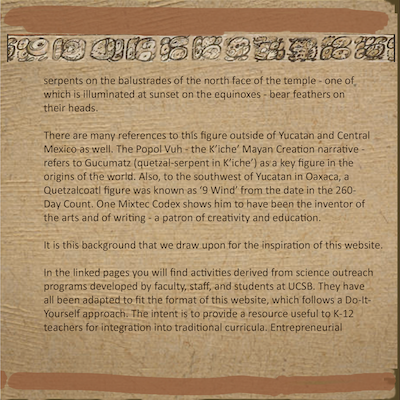
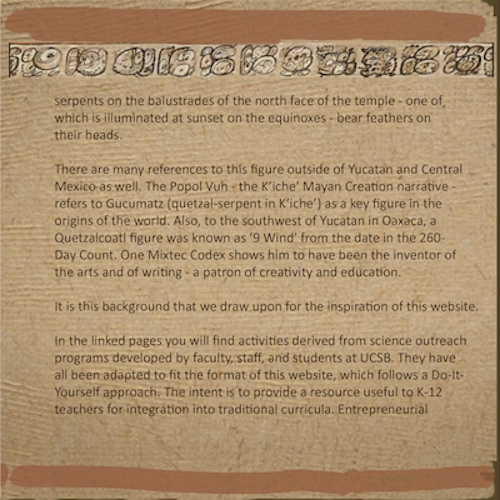
added footer for external links

diff --git a/src/pages/About.js b/src/pages/About.js
@@ -1,62 +1,64 @@
 import React from "react";
 import Navigation from "../components/Navigation";
+import Footer from "../components/Footer";
 import "../styles.css";
 import HTMLFlipBook from "react-pageflip";
-import titleBackground from "../components/images/title1.png";
-import pageOne from "../components/images/pageOne1.png";
-import pageTwo from "../components/images/pageTwo1.png";
-import pageThree from "../components/images/pageThree1.png";
-import pageFour from "../components/images/pageFour1.png";
-import pageFive from "../components/images/pageFive1.png";
-import pageSix from "../components/images/pageSix1.png";
-import pageSeven from "../components/images/mpEight1.png";
+import titleBackground from "../components/images/pageFour1.png";
+import pageOne from "../components/images/pageFive1.png";
+import pageTwo from "../components/images/pageSix1.png";
+import pageThree from "../components/images/mpEight2.png";
+// import pageFour from "../components/images/pageFour1.png";
+// import pageFive from "../components/images/pageFive1.png";
+// import pageSix from "../components/images/pageSix1.png";
+// import pageSeven from "../components/images/mpEight1.png";
 
 function MyBook(props) {
   return (
     <div className="myBook">
       <Navigation />
-        <HTMLFlipBook width={400} height={400} style={{marginLeft: "auto", marginRight: "auto", marginTop: "5%"}}>
+        <HTMLFlipBook width={500} height={500} style={{marginLeft: "auto", marginRight: "auto", marginTop: "5%"}}>
           <div className="demoPage">
             <div className="pageContent">
-              <div className="page-image" style={{backgroundImage: `url(${titleBackground})`, width: "400px", height: "400px"}}>Page 1</div>
+              <div className="page-image" style={{backgroundImage: `url(${titleBackground})`, width: "500px", height: "500px"}}>Page 1</div>
             </div>
           </div>
           <div className="demoPage">
             <div className="pageContent">
-              <div className="page-image" style={{backgroundImage: `url(${pageOne})`, width: "400px", height: "400px"}}>Page 2</div>
+              <div className="page-image" style={{backgroundImage: `url(${pageOne})`, width: "500px", height: "500px"}}>Page 2</div>
             </div>
           </div>
           <div className="demoPage">
             <div className="pageContent">
-              <div className="page-image" style={{backgroundImage: `url(${pageTwo})`, width: "400px", height: "400px"}}>Page 3</div>
+              <div className="page-image" style={{backgroundImage: `url(${pageTwo})`, width: "500px", height: "500px"}}>Page 3</div>
             </div>
           </div>
           <div className="demoPage">
             <div className="pageContent">
-              <div className="page-image" style={{backgroundImage: `url(${pageThree})`, width: "400px", height: "400px"}}>Page 4</div>
+              <div className="page-image" style={{backgroundImage: `url(${pageThree})`, width: "500px", height: "500px"}}>Page 4</div>
             </div>
           </div>
-          <div className="demoPage">
+          {/* <div className="demoPage">
             <div className="pageContent">
-              <div className="page-image" style={{backgroundImage: `url(${pageFour})`, width: "400px", height: "400px"}}>Page 5</div>
+              <div className="page-image" style={{backgroundImage: `url(${pageFour})`, width: "500px", height: "500px"}}>Page 5</div>
             </div>
-          </div>
-          <div className="demoPage">
+          </div> */}
+          {/* <div className="demoPage">
             <div className="pageContent">
-              <div className="page-image" style={{backgroundImage: `url(${pageFive})`, width: "400px", height: "400px"}}>Page 6</div>
+              <div className="page-image" style={{backgroundImage: `url(${pageFive})`, width: "500px", height: "500px"}}>Page 6</div>
             </div>
-          </div>
-          <div className="demoPage">
+          </div> */}
+          {/* <div className="demoPage">
             <div className="pageContent">
-              <div className="page-image" style={{backgroundImage: `url(${pageSix})`, width: "400px", height: "400px"}}>Page 7</div>
+              <div className="page-image" style={{backgroundImage: `url(${pageSix})`, width: "500px", height: "500px"}}>Page 7</div>
             </div>
-          </div>
-          <div className="demoPage">
+          </div> */}
+          {/* <div className="demoPage">
             <div className="pageContent">
-              <div className="page-image" style={{backgroundImage: `url(${pageSeven})`, width: "400px", height: "400px"}}>Page 8</div>
+              <div className="page-image" style={{backgroundImage: `url(${pageSeven})`, width: "500px", height: "500px"}}>Page 8</div>
             </div>
-          </div>
+          </div> */}
         </HTMLFlipBook>
+        <Footer />
     </div>
   );
 }

diff --git a/src/pages/ModThree.js b/src/pages/ModThree.js
@@ -8,6 +8,9 @@ import pageTwo from "../components/images/spThree1.png";
 import pageThree from "../components/images/apFour1.png";
 import pageFour from "../components/images/apFive1.png";
 import pageFive from "../components/images/apSix1.png";
+import pageSix from "../components/images/mpSeven1.png";
+import pageSeven from "../components/images/mpEight1.png";
+import ReactPlayer from 'react-player';
 
 function ModThree(props) {
   return (
@@ -42,6 +45,25 @@ function ModThree(props) {
           <div className="demoPage">
             <div className="pageContent">
               <div className="page-image" style={{backgroundImage: `url(${pageFive})`, width: "400px", height: "400px"}}>Page 6</div>
+            </div>
+          </div>
+          <div className="demoPage">
+            <div className="pageContent">
+              <div className="page-image" style={{backgroundImage: `url(${pageSix})`, width: "400px", height: "400px"}}>Page 7</div>
+            </div>
+          </div>
+          <div className="demoPage">
+            <div className="container">
+              <div className="video col-sm-6">
+                <div className="page-image" style={{backgroundImage: `url(${pageSeven})`, width: "400px", height: "400px"}}> 
+                    <div className="row" style={{height: "300px"}}>                       
+                      <ReactPlayer 
+                          style={{postion: "relative", marginTop: "5%", marginLeft: "1vw"}}
+                          url="https://youtu.be/tTpprVa23mo" 
+                      />
+                    </div>
+                </div>
+              </div>
             </div>
           </div>
         </HTMLFlipBook>

diff --git a/src/pages/ModTwo.js b/src/pages/ModTwo.js
@@ -8,6 +8,9 @@ import pageTwo from "../components/images/apThree1.png";
 import pageThree from "../components/images/apFour1.png";
 import pageFour from "../components/images/apFive1.png";
 import pageFive from "../components/images/apSix1.png";
+import pageSix from "../components/images/mpSeven1.png";
+import pageSeven from "../components/images/mpEight1.png";
+import ReactPlayer from 'react-player';
 
 function ModTwo(props) {
   return (
@@ -42,6 +45,25 @@ function ModTwo(props) {
           <div className="demoPage">
             <div className="pageContent">
               <div className="page-image" style={{backgroundImage: `url(${pageFive})`, width: "400px", height: "400px"}}>Page 6</div>
+            </div>
+          </div>
+          <div className="demoPage">
+            <div className="pageContent">
+              <div className="page-image" style={{backgroundImage: `url(${pageSix})`, width: "400px", height: "400px"}}>Page 7</div>
+            </div>
+          </div>
+          <div className="demoPage">
+            <div className="container">
+              <div className="video col-sm-6">
+                <div className="page-image" style={{backgroundImage: `url(${pageSeven})`, width: "400px", height: "400px"}}> 
+                    <div className="row" style={{height: "300px"}}>                       
+                      <ReactPlayer 
+                          style={{postion: "relative", marginTop: "5%", marginLeft: "1vw"}}
+                          url="https://youtu.be/NhWrKZd4Gck" 
+                      />
+                    </div>
+                </div>
+              </div>
             </div>
           </div>
         </HTMLFlipBook>

diff --git a/src/components/Navigation.js b/src/components/Navigation.js
@@ -1,5 +1,5 @@
 import React from "react";
-import { Link, withRouter } from "react-router-dom";
+import { Link, withRouter, } from "react-router-dom";
 
 function Navigation(props) {
   return (
@@ -7,7 +7,7 @@ function Navigation(props) {
       <nav className="navbar navbar-expand-lg navbar-dark bg-dark">
         <div className="container">
           <Link className="navbar-brand" to="/">
-            Two-Eyed Seeing
+            Ce Akatl
           </Link>
           <button
             className="navbar-toggler"
@@ -39,15 +39,6 @@ function Navigation(props) {
               >
                 <Link className="nav-link" to="/about">
                   About
-                </Link>
-              </li>
-              <li
-                className={`nav-item  ${
-                  props.location.pathname === "/contact" ? "active" : ""
-                }`}
-              >
-                <Link className="nav-link" to="/contact">
-                  Contact
                 </Link>
               </li>
             </ul>

diff --git a/src/components/Footer/index.js b/src/components/Footer/index.js
@@ -1,0 +1,27 @@
+import React from "react";
+import "./style.css";
+
+function Footer(props) {
+return (
+<div className="footer">
+    {/* <nav className="navbar navbar-expand-lg navbar-dark bg-dark">
+        <div className="container">
+            <div className="collapse navbar-collapse" id="navbarSupportedContent"> */}
+                <ul className="nav justify-content-center">
+                    <li className="nav-item">
+                        <a className="navbar-link" href="https://www.ccs.ucsb.edu/">UCSB College of Creative Studies</a>
+                    </li>
+                    <li className="space">
+                        <p>through</p>
+                    </li>
+                    <li className="nav-item">
+                        <a className="navbar-link" href="https://www.nativeskywatchers.com/">Native SkyWatchers</a>
+                    </li>
+                </ul>
+            {/* </div>
+        </div>
+    </nav> */}
+</div>
+);
+}
+export default Footer

diff --git a/src/pages/Home.js b/src/pages/Home.js
@@ -1,6 +1,6 @@
 import React from "react";
 import "../styles.css";
-import home from "../components/images/twoEyed.png";
+import home from "../components/images/ceAkatl.png";
 import about from "../components/images/trimmedAbout.png";
 import wiki from "../components/images/wiki.png";
 import popol from "../components/images/popol.png";

diff --git a/src/components/Footer/style.css b/src/components/Footer/style.css
@@ -1,0 +1,19 @@
+.footer{
+    margin-top: 1rem;
+    padding: 1rem;
+    background-color: rgb(184, 83, 25);
+    position: fixed;
+    bottom: 0;
+    left: 0;
+    width: 100%;
+  }
+
+a {
+    color: whitesmoke;
+    font-size: medium;
+    font-weight: bold;
+}
+
+.space {
+    color: transparent;
+}

diff --git a/src/pages/AnotherPopolVuh.js b/src/pages/AnotherPopolVuh.js
@@ -27,6 +27,9 @@ import pageTwentyOne from "../components/images/mpEight1.png";
 
 
 function AnotherPopolVuh(props) {
+
+
+
   return (
     <div className="myBook">
       <Navigation />

diff --git a/src/styles.css b/src/styles.css
@@ -189,6 +189,7 @@
   }
 
 
+
   @media screen and (max-width: 1200px) {
     .page-image {
       height: 600px;
